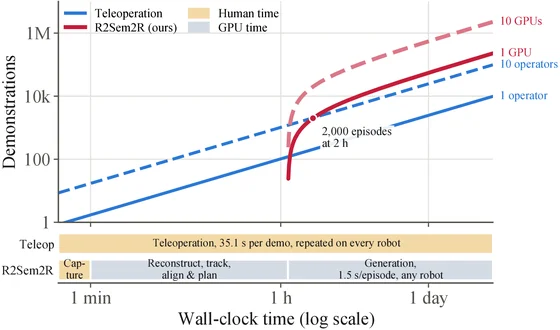
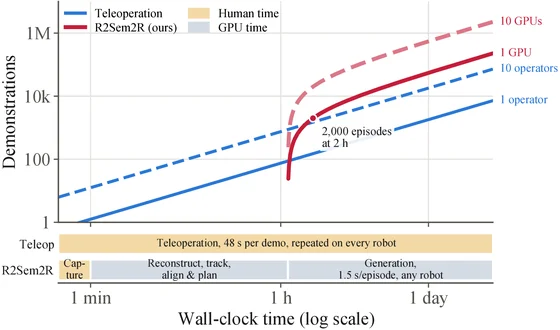
Drill task renamed 'Drill reorient'; teleop rate 48 s per demo (150 demos about 2 h)
Task name updated in the results table and the tasks, rollouts and failure
demos (names are join keys, renamed together). Cost demo and caption use
48 s per demonstration including resets. Success and cost figures and their
thumbnails re-rendered from the paper.

diff --git a/index.html b/index.html
@@ -587,7 +587,7 @@ parallel. In every episode the carry replays the mug trajectory tracked from the
     <div class="demo-fallback">Interactive calculator of demonstrations produced against wall-clock time. It needs JavaScript.</div>
   </div>
   <p class="hero-cap"><b>Interactive: what the data costs.</b> Demonstrations against wall-clock time at the rates in the
-  paper: teleoperation takes 35.1&nbsp;s per demonstration per operator, while R2R2R+ and R2Sem2R need about a minute of
+  paper: teleoperation takes about 48&nbsp;s per demonstration per operator, including resets, while R2R2R+ and R2Sem2R need about a minute of
   human capture and about 70 minutes of GPU processing, then generate an episode every 1.3&nbsp;s and 1.5&nbsp;s per GPU, so
   one GPU reaches 2,000 R2Sem2R episodes in about 2 hours. Robot setup, needed by every method, is not shown. Set the operators, the GPUs and
   the time, or drag across the chart; the chips give the demonstrations completed by then.</p>
@@ -723,11 +723,11 @@ parallel. In every episode the carry replays the mug trajectory tracked from the
       xarm7:[['Mug on coffee machine',[31,50],[18,50],[45,50]],
              ['Pour into bowl',[36,50],[23,50],[37,50]],
              ['Hang on mug tree',[29,50],[10,50],[31,50]],
-             ['Drill pick and place',[34,40],[15,40],[34,40]]],
+             ['Drill reorient',[34,40],[15,40],[34,40]]],
       panda:[['Mug on coffee machine',[30,50],[20,50],[34,50]],
              ['Pour into bowl',[28,50],[22,50],[38,50]],
              ['Hang on mug tree',[14,50],[5,50],[18,50]],
-             ['Drill pick and place',[26,40],[12,40],[26,40]]]
+             ['Drill reorient',[26,40],[12,40],[26,40]]]
     };
     var NAME={xarm7:'xArm7',panda:'Franka Panda'};
     window.R2Sem2R_RESULTS={methods:M, results:R, robots:NAME};   // read by the interactive demos (static/demos/*), so every number on the page comes from R

diff --git a/static/demos/cost/cost.js b/static/demos/cost/cost.js
@@ -1,10 +1,10 @@
 // What the data costs: demonstrations produced against wall-clock time, with the model and rates of the paper's
-// throughput figure (results/make_figures.py): teleoperation 35.1 s per demonstration per operator; R2R2R+ and R2Sem2R
+// throughput figure (results/make_figures.py): teleoperation about 48 s per demonstration per operator, including resets; R2R2R+ and R2Sem2R
 // a one-time setup of about 70 minutes (1 min of human capture, then GPU processing), then 1.3 s and 1.5 s per episode per GPU. Set operators, GPUs and a time, or drag on
 // the plot; the chips read off the number of completed demonstrations at that time.
 import { h, s, log, onResize, swatch, injectCSS, fmt } from '../scaling/charts.js';
 
-const TELEOP_S = 35.1, R2R2R_S = 1.3, OURS_S = 1.5, SETUP_S = 4200;
+const TELEOP_S = 48, R2R2R_S = 1.3, OURS_S = 1.5, SETUP_S = 4200;
 const T0 = 60, T1 = 86400, Y0 = 1, Y1 = 1e7;
 const GUIDES = [[3600, '1 hour', '1 h'], [7200, '2 hours', '2 h'], [43200, '12 hours', '12 h']];
 

diff --git a/static/demos/ourfails/ourfails.js b/static/demos/ourfails/ourfails.js
@@ -7,7 +7,7 @@ const BASE = new URL('./', import.meta.url);
 const url = p => new URL(p, BASE).href;
 const ASPECT = { 'Franka Panda': '640 / 452', xArm7: '640 / 360' };
 const SHORT = { 'Franka Panda': 'Panda', xArm7: 'xArm7' };
-const TASK = { 'Mug on coffee machine': 'place', 'Pour into bowl': 'pour', 'Drill pick and place': 'drill' };
+const TASK = { 'Mug on coffee machine': 'place', 'Pour into bowl': 'pour', 'Drill reorient': 'drill' };
 
 export async function mount(el) {
   ensureCss(url('../tasks/loopkit.css')); ensureCss(url('ourfails.css'));
